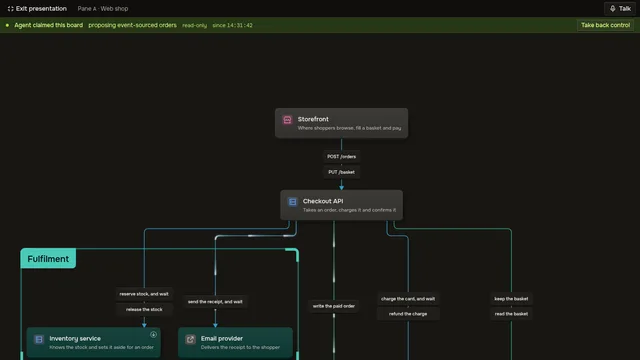
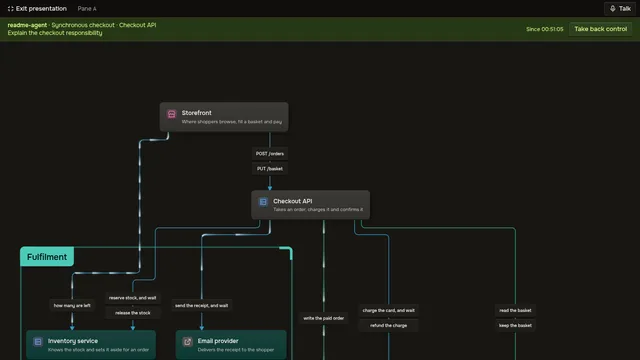
refactor(readme): demonstrate canonical claim revocation

diff --git a/scripts/readme-assets/take-back.ts b/scripts/readme-assets/take-back.ts
@@ -1,6 +1,11 @@
-// The take-back clip: an agent claims a board and every pane says so; the person presses Take back
-// control in the pane, and the agent's next write is refused. The agent's terminal stands on the
-// left; every command it shows ran against the server as shown.
+// Film a canonical subject claim, human take-back, and the former writer's refused edit.
+
+import { writeFileSync } from "node:fs";
+import { join } from "node:path";
+import {
+	ArchitectureClaimResultSchema,
+	ArchitectureModuleEditResultSchema,
+} from "@archboard/board/model";
 
 import {
 	Terminal,
@@ -8,22 +13,90 @@ import {
 	filmTogether,
 	moment,
 	present,
-	readBoard,
 	attachmentFile,
 	readmeFile,
+	scratch,
 	withTake,
 	type Producer,
+	type TakeServer,
 	// oxlint-disable-next-line archboard/absolute-imports -- scripts/ has no # imports; sibling imports stay relative
 } from "./kit.ts";
+// oxlint-disable-next-line archboard/absolute-imports -- scripts/ has no # imports; sibling imports stay relative
+import { readModel, modelResult } from "./model-authoring.ts";
 
-const BOARD = "Web shop";
-const REASON = "proposing event-sourced orders";
-const PROPOSAL = "Order events";
+const MODEL = "Shop";
+const REASON = "Explain the checkout responsibility";
 const CLIP = attachmentFile("take-back.webp");
 const THUMBNAIL = readmeFile("idx-safety.webp");
 const TERMINAL_WIDTH = 600;
 const PANE = { width: 1320, height: 1080 } as const;
-const BANNER = "[data-slot='claim-banner']";
+const BANNER = "[data-slot='model-claim']";
+
+/**
+ * Claim one actual module and prepare the attempted edit without applying it.
+ * @param server The isolated take server.
+ * @param terminal The filmed command output.
+ * @returns The exact attempted edit and original revision.
+ */
+async function claimCheckout(server: TakeServer, terminal: Terminal) {
+	const model = await readModel(server);
+	const subject = model.modules.find((module) => module.name === "Checkout API");
+	if (subject === undefined) throw new Error("The example has no Checkout API module.");
+	const target = { model: model.manifest.id, state: model.manifest.current?.id ?? null };
+	const writer = "readme-agent";
+	const claimFile = join(scratch("takes", "take-back"), "claim.json");
+	writeFileSync(
+		claimFile,
+		JSON.stringify({ target, writer, reason: REASON, subjects: [subject.id] }),
+	);
+	await terminal.command(`archboard model claim --input '${claimFile}'`);
+	const claimed = ArchitectureClaimResultSchema.parse(
+		modelResult(await server.cli(["model", "claim", "--input", claimFile])),
+	);
+	if (!claimed.success) throw new Error(JSON.stringify(claimed));
+	await terminal.done(`Claimed ${subject.name}`);
+	const input = join(scratch("takes", "take-back"), "edit.json");
+	writeFileSync(
+		input,
+		JSON.stringify({
+			target,
+			subject: subject.id,
+			expectedRevision: model.revision,
+			operationId: crypto.randomUUID(),
+			writer,
+			claim: claimed.claim.id,
+			description: "Accept checkout requests and coordinate the order response.",
+		}),
+	);
+	const release = join(scratch("takes", "take-back"), "release.json");
+	writeFileSync(release, JSON.stringify({ claim: claimed.claim.id, writer }));
+	return { input, release, revision: model.revision.digest };
+}
+
+/**
+ * Run the former intent and require the actual revocation refusal.
+ * @param server The isolated take server.
+ * @param terminal The filmed command output.
+ * @param input The authored edit input.
+ * @param revision The architecture before the claim.
+ */
+async function refusedEdit(
+	server: TakeServer,
+	terminal: Terminal,
+	input: string,
+	revision: string,
+) {
+	await terminal.command(`archboard model edit --input '${input}' --doing '${REASON}'`);
+	const refused = await server.attempt(["model", "edit", "--input", input, "--doing", REASON]);
+	const result = ArchitectureModuleEditResultSchema.parse(modelResult(JSON.parse(refused.stdout)));
+	if (refused.status !== 2 || result.success || result.code !== "CLAIM_REVOKED") {
+		throw new Error(`The former intent did not refuse with CLAIM_REVOKED: ${refused.stdout}`);
+	}
+	if ((await readModel(server)).revision.digest !== revision) {
+		throw new Error("The refused intent changed the authored architecture.");
+	}
+	await terminal.refused(result.code, ...result.diagnostics.map(({ message }) => message));
+}
 
 const takeBack: Producer = {
 	kind: "clip",
@@ -32,9 +105,9 @@ const takeBack: Producer = {
 	attachments: [CLIP],
 	needs: ["chromium", "ffmpeg"],
 	plan: [
-		`Start an Archboard server over a copy of examples/web-shop; open the agent's terminal page and the shell on ${BOARD}, presented, side by side in a private headless Chromium, dark.`,
-		`Film archboard claim on ${BOARD}, the pointer pressing Take back control in the pane, and the agent's next write (archboard semantic branch) refused.`,
-		`Encode the two windows side by side as a 1440 px lossless WebP at 30 frames a second, in the scratch directory to attach by hand, opening on its last frame, and cut ${THUMBNAIL} from the claim banner.`,
+		"Open the copied canonical shop beside a terminal in an isolated browser.",
+		"Claim Checkout API, press Take back control, then attempt the former edit through the CLI.",
+		"Require CLAIM_REVOKED and the unchanged authored revision before encoding the clip and claim thumbnail.",
 	],
 	/**
 	 * Film the take and encode it.
@@ -44,7 +117,7 @@ const takeBack: Producer = {
 		withTake("take-back", "examples/web-shop", false, async (server, browser) => {
 			const terminal = await Terminal.open(browser, "dark", PANE.height);
 			const page = await browser.open({
-				url: `${server.url}/?paneA=${encodeURIComponent(BOARD)}`,
+				url: `${server.url}/?modelA=${MODEL}`,
 				theme: "dark",
 				cursor: true,
 				...PANE,
@@ -52,44 +125,24 @@ const takeBack: Producer = {
 			await page.atRest();
 			await present(page);
 			await page.moveTo({ x: 1100, y: 700 }, 1);
-			await Bun.sleep(1200);
-			const { version } = await readBoard(server, BOARD);
 			const take = await filmTogether("take-back", [terminal.page, page], async () => {
-				await Bun.sleep(400);
-				await terminal.you("Propose an event-sourced orders store on the web shop board.");
-				await Bun.sleep(500);
-				await terminal.command(`archboard claim --board "${BOARD}" --reason "${REASON}"`);
-				await server.cli(["claim", "--board", BOARD, "--reason", REASON, "--for", "10m"]);
-				await terminal.done(`claimed ${BOARD}`);
-				await page.waitFor(`!!document.querySelector("${BANNER} button")`, "the claim banner");
-				await Bun.sleep(1600);
-				const claimed = await moment(page, [BANNER], 960, { x: TERMINAL_WIDTH, y: 0 });
-				await page.click(`${BANNER} button`, 420);
-				await Bun.sleep(1400);
-				const branch = [
-					"semantic",
-					"branch",
-					BOARD,
-					"--as",
-					PROPOSAL,
-					"--expect-version",
-					String(version),
-					"--doing",
-					REASON,
-				];
-				await terminal.command(
-					`archboard semantic branch "${BOARD}" --as "${PROPOSAL}" --expect-version ${version} --doing "${REASON}"`,
-				);
-				const refused = await server.attempt(branch);
-				if (refused.status === 0) {
-					throw new Error("The agent's write after Take back control was not refused.");
+				await terminal.you("Explain the checkout responsibility in the architecture.");
+				const intent = await claimCheckout(server, terminal);
+				try {
+					await page.waitFor(`!!document.querySelector("${BANNER} button")`, "the subject claim");
+					await Bun.sleep(1600);
+					const claimed = await moment(page, [BANNER], 960, { x: TERMINAL_WIDTH, y: 0 });
+					await page.click(`${BANNER} [data-slot='model-take-back']`, 420);
+					await page.waitFor(`!document.querySelector("${BANNER}")`, "the claim removed");
+					await refusedEdit(server, terminal, intent.input, intent.revision);
+					await terminal.say(
+						"You took control back. The former edit was refused. The architecture is unchanged.",
+					);
+					await Bun.sleep(2600);
+					return claimed;
+				} finally {
+					await server.cli(["model", "release", "--input", intent.release]);
 				}
-				const why = refused.stderr.split("\n").find((line) => line.trim() !== "") ?? "";
-				await terminal.refused(`refused · exit ${refused.status}`, why.replace(/^Error:\s*/, ""));
-				await Bun.sleep(900);
-				await terminal.say("You took the board back, so I stopped. Nothing was written.");
-				await Bun.sleep(2600);
-				return claimed;
 			});
 			await encodeTake(take, {
 				clip: CLIP,

diff --git a/backlog/tasks/task-549.24 - Make-canonical-models-the-default-and-retire-live-board-paths.md b/backlog/tasks/task-549.24 - Make-canonical-models-the-default-and-retire-live-board-paths.md
@@ -5,7 +5,7 @@ status: In Progress
 assignee:
   - '@codex-parent'
 created_date: '2026-10-26T05:26:00Z'
-updated_date: '2026-10-28T00:41:00Z'
+updated_date: '2026-10-28T00:52:00Z'
 labels:
   - ready-for-agent
 dependencies:
@@ -130,6 +130,8 @@ Complete the web-shop fixture transition from the public scratch migration and p
 Repair the observed whole-batch removal refusal through the existing flow owner. The canonical hero explicitly removes Timeout guard and its timer message in one batch. removeStep marks the identity in both edited and removals; repairReferences then treats that explicit removal as an edited surviving message with a removed endpoint. Delegate a bounded real-files/Git public-runtime RED/GREEN repair. Preserve refusal for a genuinely surviving edited or moved message with a removed endpoint. Parent owns the hero input, frontend, root migration and acceptance.
 
 Bounded flow-removal repair: use the approved public architecture runtime with real temporary files and Git. Reproduce explicit incident-message removal plus module removal while preserving another message. Repair the existing flow-removal owner, preserve surviving-message refusal and durable contracts, then run focused tests, types, lint and formatting. Contract: /home/msc/.local/state/archboard-implementation/task-549/task-549.24-flow-removal-contract.md. Reuse Board persistence proposal NyesaQPQ, predecessor LSsVMn3j, subject yNZEhzyc. Parent retains final architecture authoring and acceptance.
+
+Continue parent README transitions through existing real producers. Demonstrate canonical subject claims, human take-back, CLAIM_REVOKED refusal, and unchanged authored revision. Keep retained history and narration on canonical captured readings. Merge bounded repairs through merger agents, then complete root migration and final acceptance.
 <!-- SECTION:PLAN:END -->
 
 ## Implementation Notes
@@ -256,4 +258,6 @@ Ported README SVG/raster recipes and banner rendering to canonical structural/fl
 Canonical hero source and authored operation batch are checkpointed, not accepted. Types, focused lint and formatting pass. The actual producer exposed source-label ambiguity, which the fixture now resolves by explicit source module plus label. The next run reproduced a public runtime removal conflict for an explicitly removed incident message. No hero asset was accepted or uploaded. The authoring helper now keeps separate claim/edit/release input files for diagnosis and exact retries, and qualifies collection claim scopes as model#localCollectionID. Backend removal repair remains open.
 
 Bounded flow-removal backend repair on fix/flow-removal-blocker starts at signed 4bbf3679e with 9e01df6 and required main a98f28811 in its ancestry. The public flows runtime owner reproduced MODEL_INVALID for explicit incident-message removal with module removal. The existing incident-message predicate now excludes identities already marked for removal. The retained flow keeps its surviving message and participants, deleted identities retire, and exact retry reopens the durable result. Existing refusal batches cover edited and moved surviving messages with deleted endpoints. The interrupted flow-repair owner now includes explicit step removal and preserves recovery conflicts, affected identities, retained content, and exact retry. Focused flows and structure-recovery owners: 12 pass. Both TypeScript projects, scoped source/test lint, formatting, and git diff whitespace pass. Board persistence proposal NyesaQPQ (predecessor LSsVMn3j, family 0T9enjhi) remains the provenance. Affected subject yNZEhzyc keeps its identity and existing relationships UHKlormM and yUvd87du. Runtime discovery reports LEGACY_AUTHORITY, so no source-vault authoring or claims occur. Parent owns final authoring, migration, and acceptance. Contract and evidence logs live in /home/msc/.local/state/archboard-implementation/task-549 under task-549.24-flow-removal-*. No full gate, model evaluation, parent hero take, frontend, example, or README asset work ran.
+
+Merged signed flow-removal repair719c3815e through signed8b5f850b; merge tree equals validated source. The next real hero run exposed checkpoint.referenceDependencies leaking through public checkpoint metadata. Exact blocker is task-549.24-checkpoint-metadata-blocker.md outside the repository. Canonical take-back producer now claims Checkout API, uses the actual human control, requires CLI exit2/CLAIM_REVOKED, and proves unchanged authored revision.digest. Real producer, both types, scoped lint and formatting pass. Parent inspected the generated thumbnail, source frames and encoded clip first frame. Clip is 3.76MiB in scratch, not uploaded. No acceptance or migration status changed.
 <!-- SECTION:NOTES:END -->
